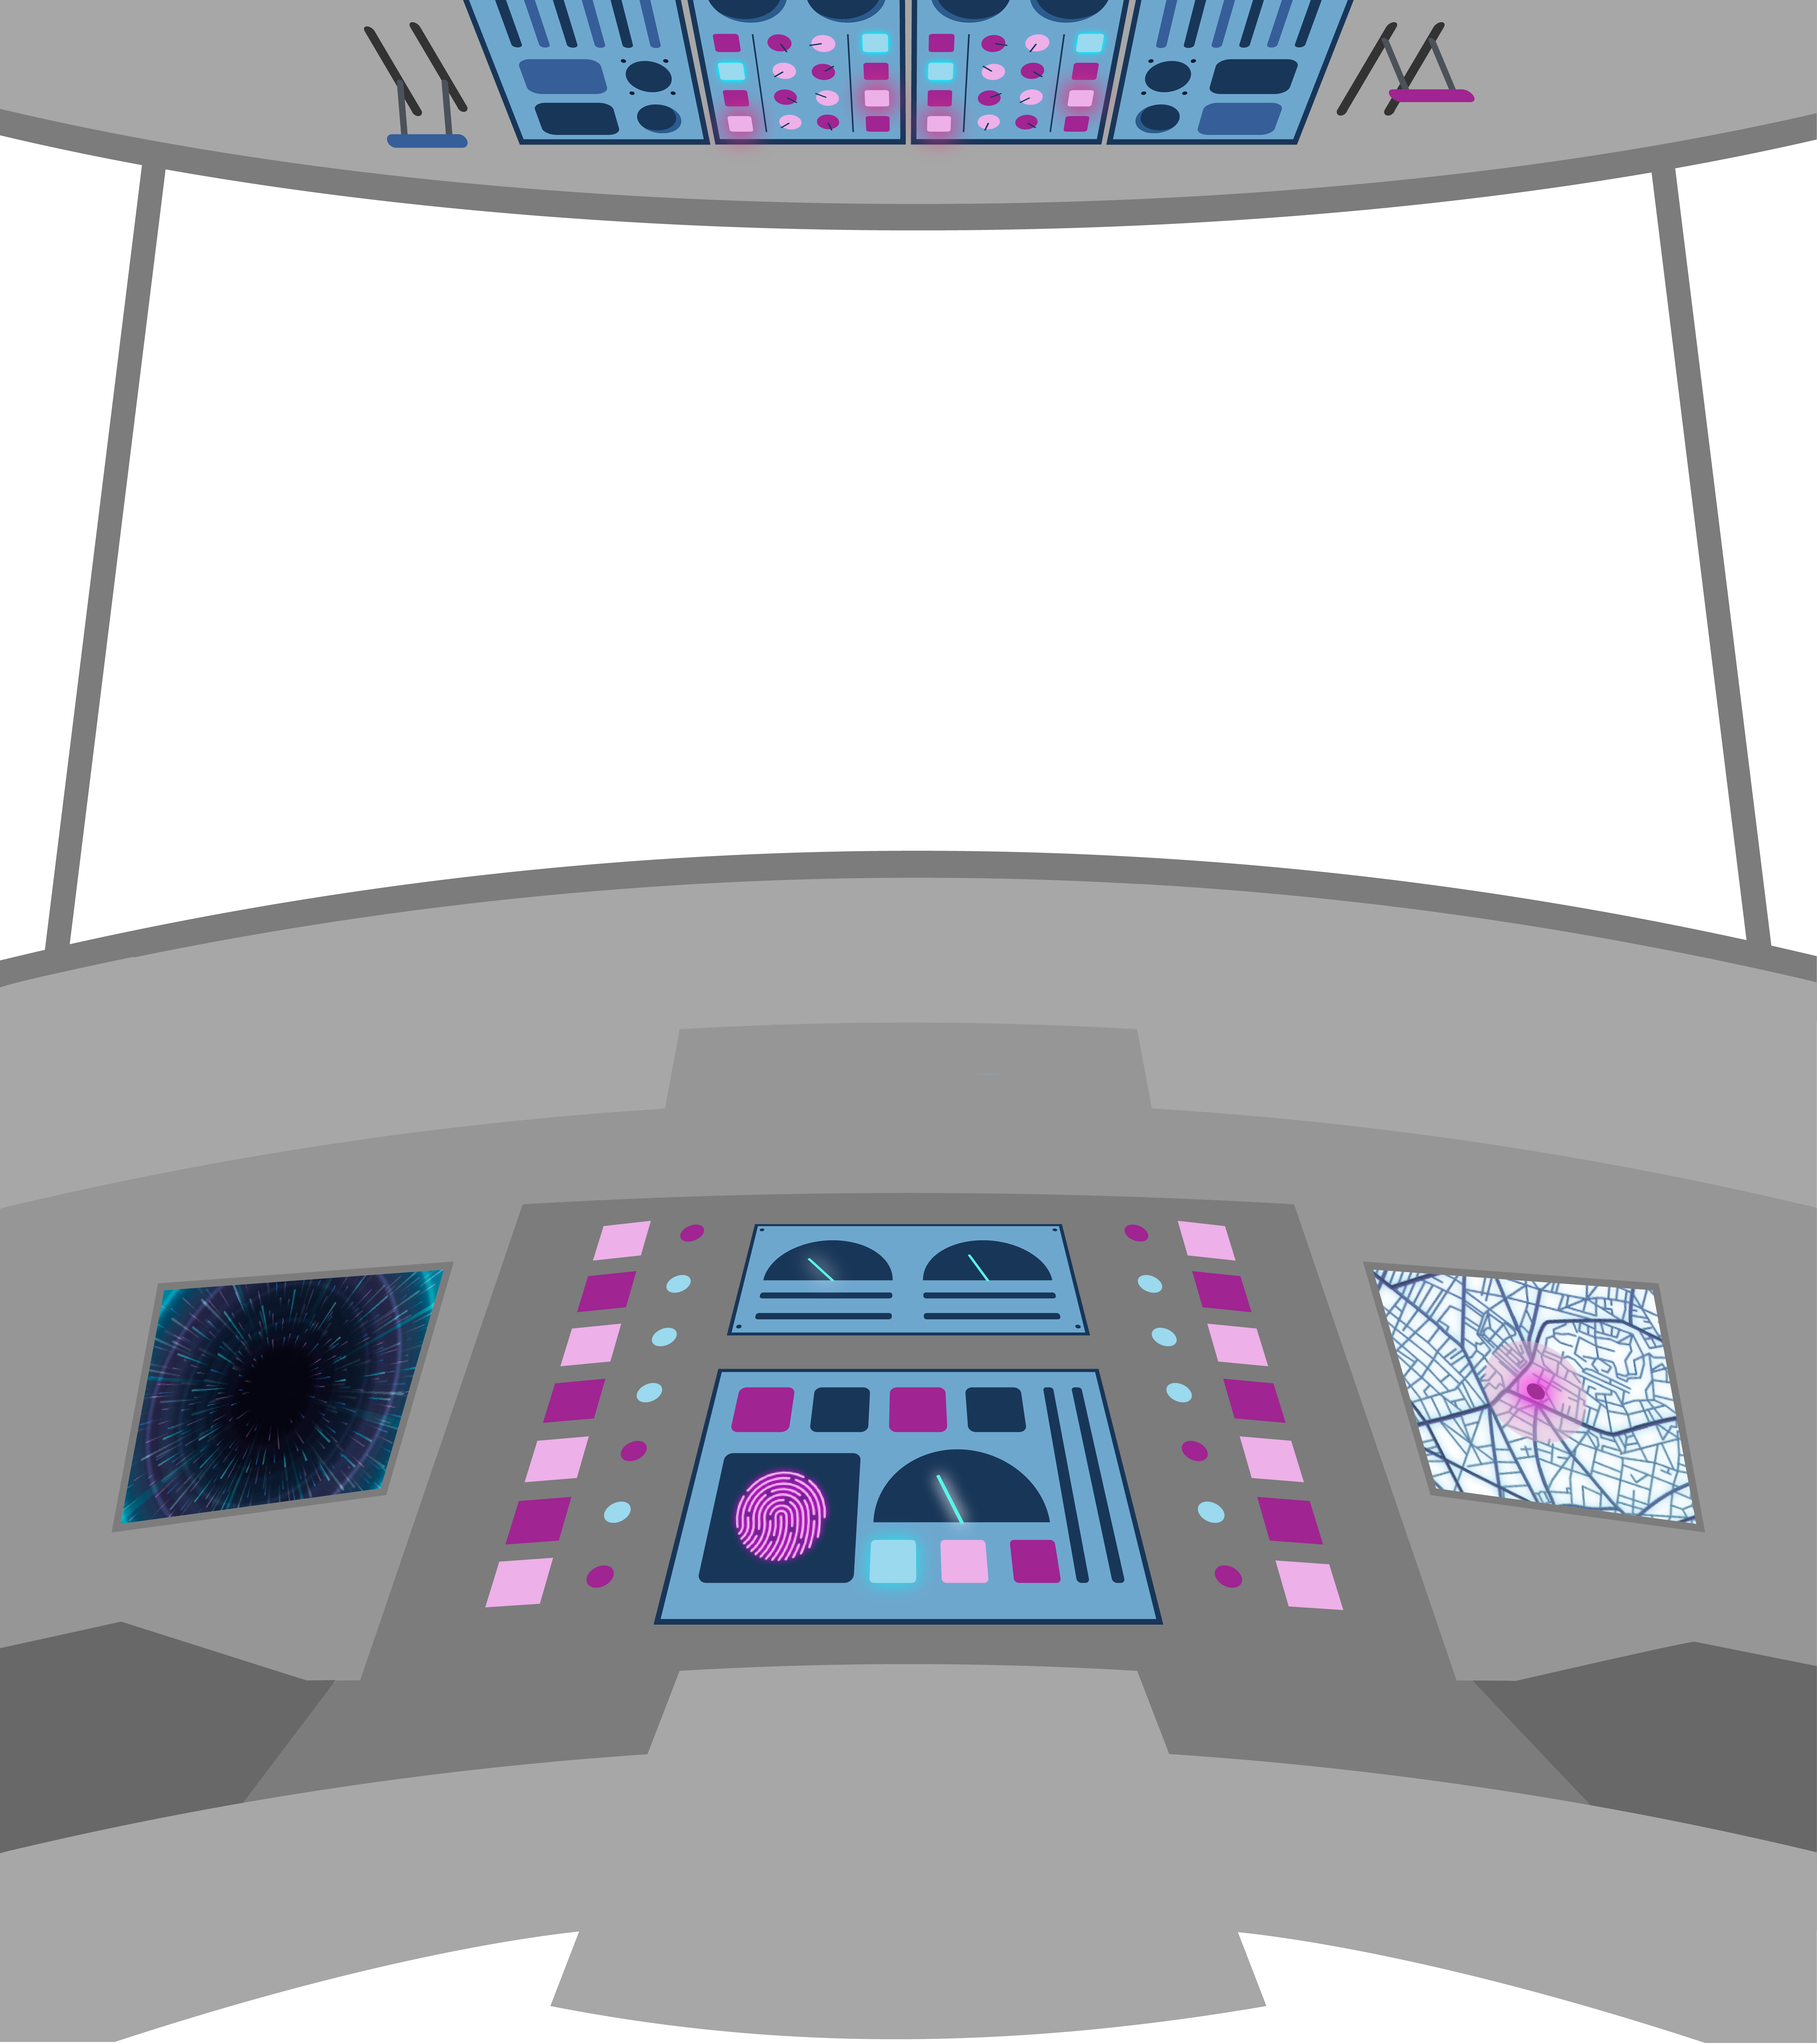
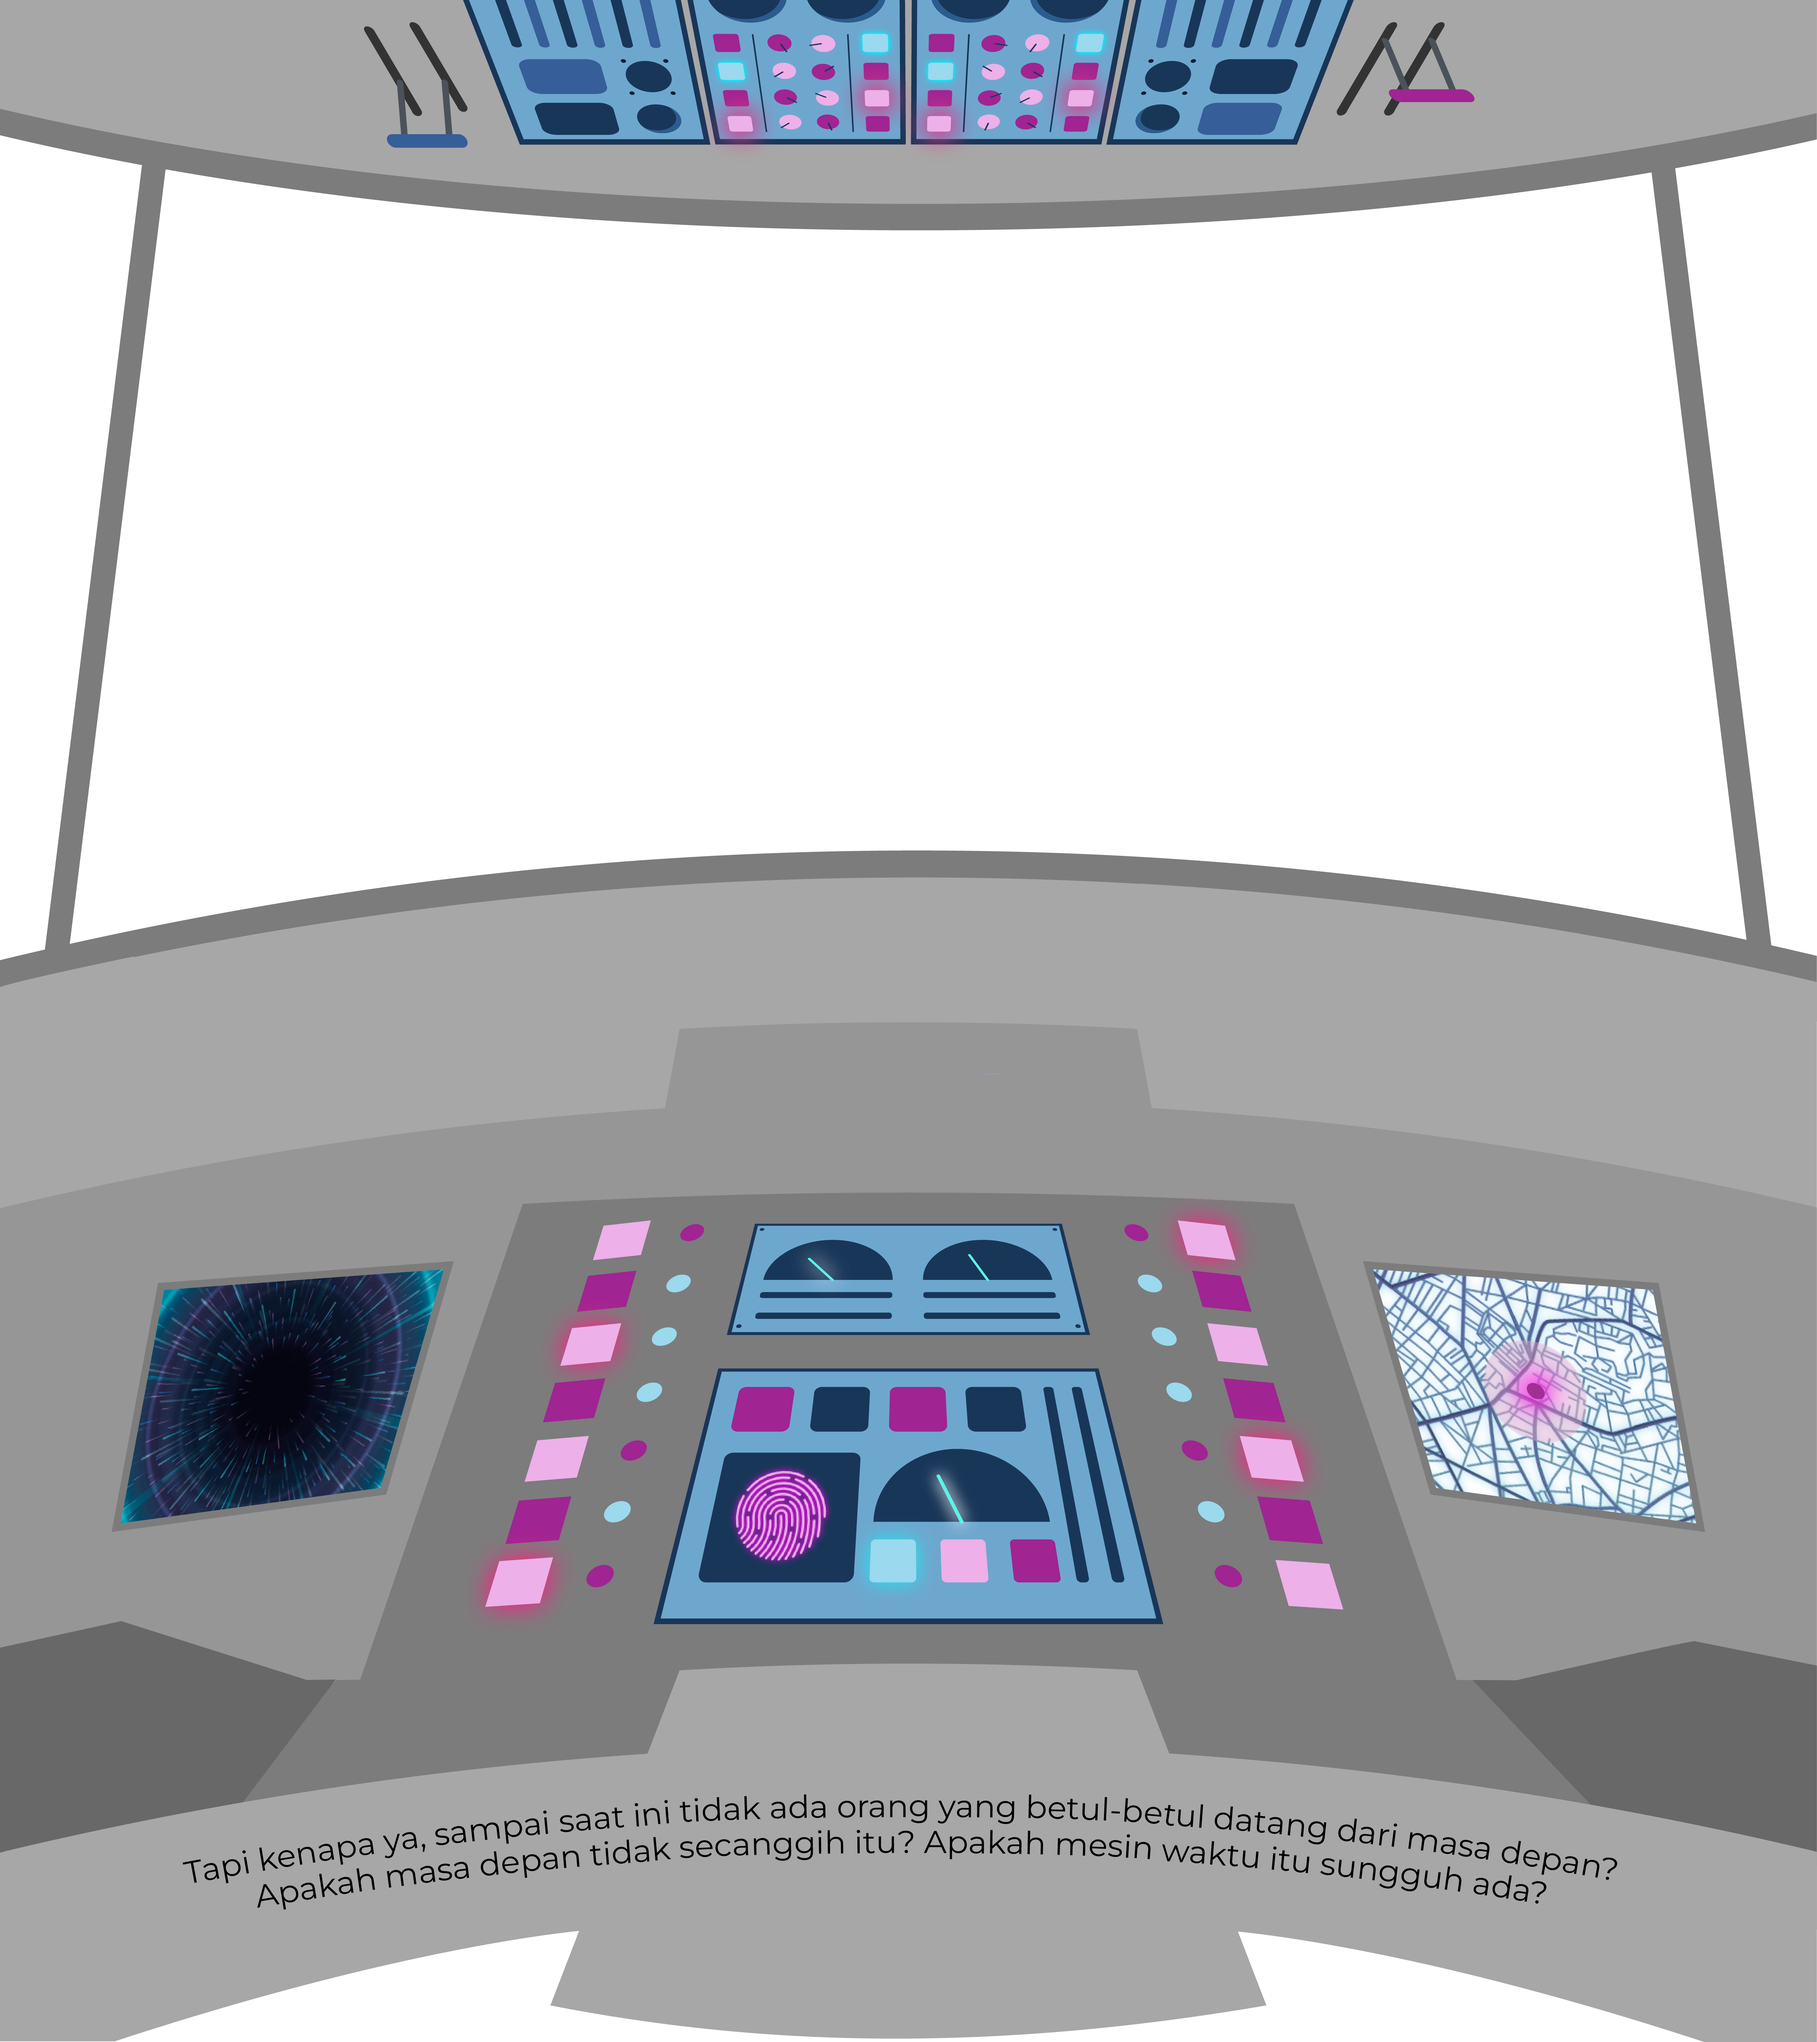
add opening

diff --git a/js/vertical-script.js b/js/vertical-script.js
@@ -1,48 +1,30 @@
-'use strict';
+let text1 = document.getElementById('text1');
+let ruangkendali = document.getElementById('ruangkendali');
+let kaca = document.getElementById('kaca');
+let text2 = document.getElementById('text2');
+let fusion = document.getElementById('fusion');
 
-var animatedElements = document.querySelectorAll('.animated');
+window.addEventListener('scroll', () => {
+    let value = window.scrollY;
 
-var debounce = function debounce(func) {
-  var wait = arguments.length > 1 && arguments[1] !== undefined ? arguments[1] : 20;
-  var immediate = arguments.length > 2 && arguments[2] !== undefined ? arguments[2] : true;
+    text1.style.marginTop = value * 2.5 + 'px';
+    if (value > 400) {
+        text1.style.opacity = 0;
+      } else {
+        text1.style.opacity = 1;
+      }
+    text2.style.marginTop = value * 2.5 + 'px';
+    if (value < 400) {
+        text2.style.opacity = 0;
+      } else {
+        text2.style.opacity = 1;
+      }
+    console.log(value);
+    fusion.style.top = value * -1.5 + 'px';
+    ruangkendali.style.top = value * -1.5 + 'px';
+    kaca.style.top = value * -1.5 + 'px';
 
-  var timeout = void 0;
-  return function () {
-    for (var _len = arguments.length, args = Array(_len), _key = 0; _key < _len; _key++) {
-      args[_key] = arguments[_key];
-    }
 
-    var context = undefined;
-    var later = function later() {
-      timeout = null;
-      if (!immediate) func.apply(context, args);
-    };
-    var callNow = immediate && !timeout;
-    clearTimeout(timeout);
-    timeout = setTimeout(later, wait);
-    if (callNow) func.apply(context, args);
-  };
-};
 
-var checkAnimation = function checkAnimation(e) { //Check if a scroll animated element is in view
+});
 
-  animatedElements.forEach(function (animatedElement) {
-    var slideInTrigger = window.scrollY + window.innerHeight - animatedElement.offsetHeight;
-
-    var isShowing = slideInTrigger > animatedElement.offsetTop;
-
-    if (isShowing) {
-      animatedElement.classList.remove('inactive'); //Unhide the element
-    } else {
-      animatedElement.classList.add('inactive'); //Hide the element
-    }
-  });
-};
-
-var hideAnimated = function hideAnimated(e) {
-  animatedElements.forEach( function(animatedElement) {
-    animatedElement.classList.add('inactive'); //Hide elements by default
-  })
-}
-
-window.addEventListener('scroll', debounce(checkAnimation, 20)); 

diff --git a/index - Copy.html b/index - Copy.html
@@ -23,9 +23,22 @@
           <br>Apakah masa depan tidak secanggih itu? Apakah masa depan itu sungguh ada?</br>
         </h4>
       </div>
-      <img id="ruang-kendali" class="bg" src="./images/ruang-kendali.png">
-    
+      <h2 id="text2">Sebuah Mesin Waktu
+        <br>Bernama "Data"</br></h2>
+      <img id="ufo" class="bg" src="./images/ruang-ufo.png">
+      <h4 id="text3">Satu-satunya hal yang bisa membawa kita kepada gambaran paling nyata soal masa depan
+        <br>adalah data-data yang kita punya dari semua yang telah terjadi.</br>
+      </h4>
+      <img id="ruangkendali" class="bg" src="./images/ruang-kendali.png">
+      
     </section>
+    <!-- <section class="sec">
+      <img id="fusion2" class="bg" src="./images/fusion.png">
+      <h2 id="text2">Sebuah Mesin Waktu Bernama 'Data'</h2>
+
+    </section> -->
+      
+    
     <h1 >Scroll Effects</h1>
     <h1 class="animated fade-in">Fade In on Scroll</h1>
     <h1 class="animated slide-in-left">Slide In on Scroll From Left</h1>

diff --git a/vertical-style.css b/vertical-style.css
@@ -9,6 +9,7 @@
   font-family: sans-serif;
   position: relative;
 }
+
 h1 {
   line-height: 90vh;
 }
@@ -41,12 +42,26 @@ h1 {
 
 #text11 {
     font-weight: 1000;
-    font-size: 5em;
+    font-size: 7em;
 }
 
 #text12 {
     font-weight: 100;
     font-size: 2em;
+}
+
+.sec {
+    position: relative;
+    padding: 100px;
+}
+
+#text2 {
+    position: absolute;
+    color: white;
+    text-align: center;
+    font-family: 'Montserrat', sans-serif;
+    font-weight: 1000;
+    font-size: 7em;
 }
 
 #fusion {
